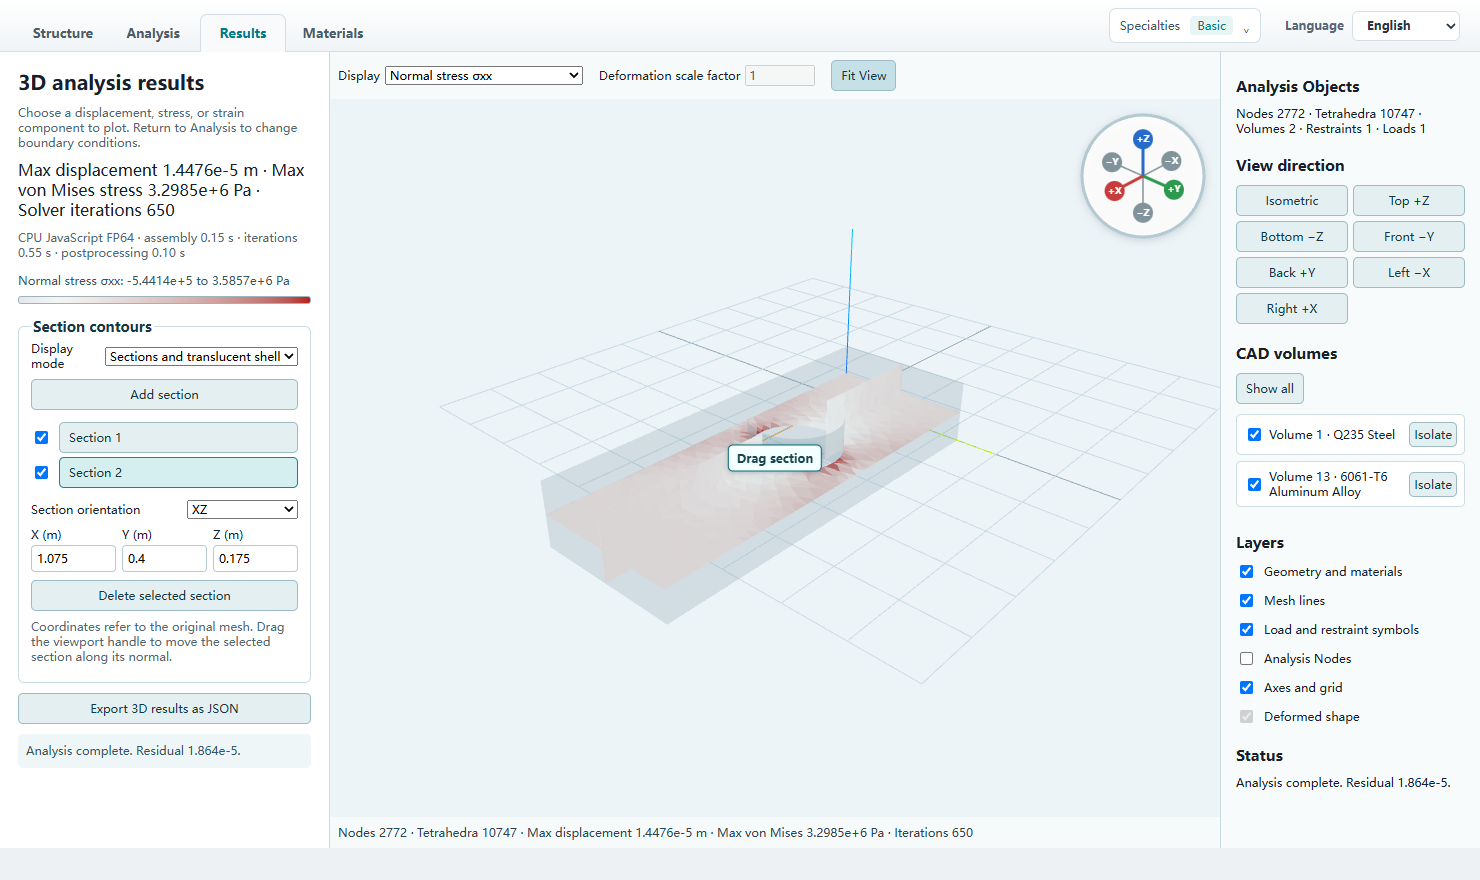
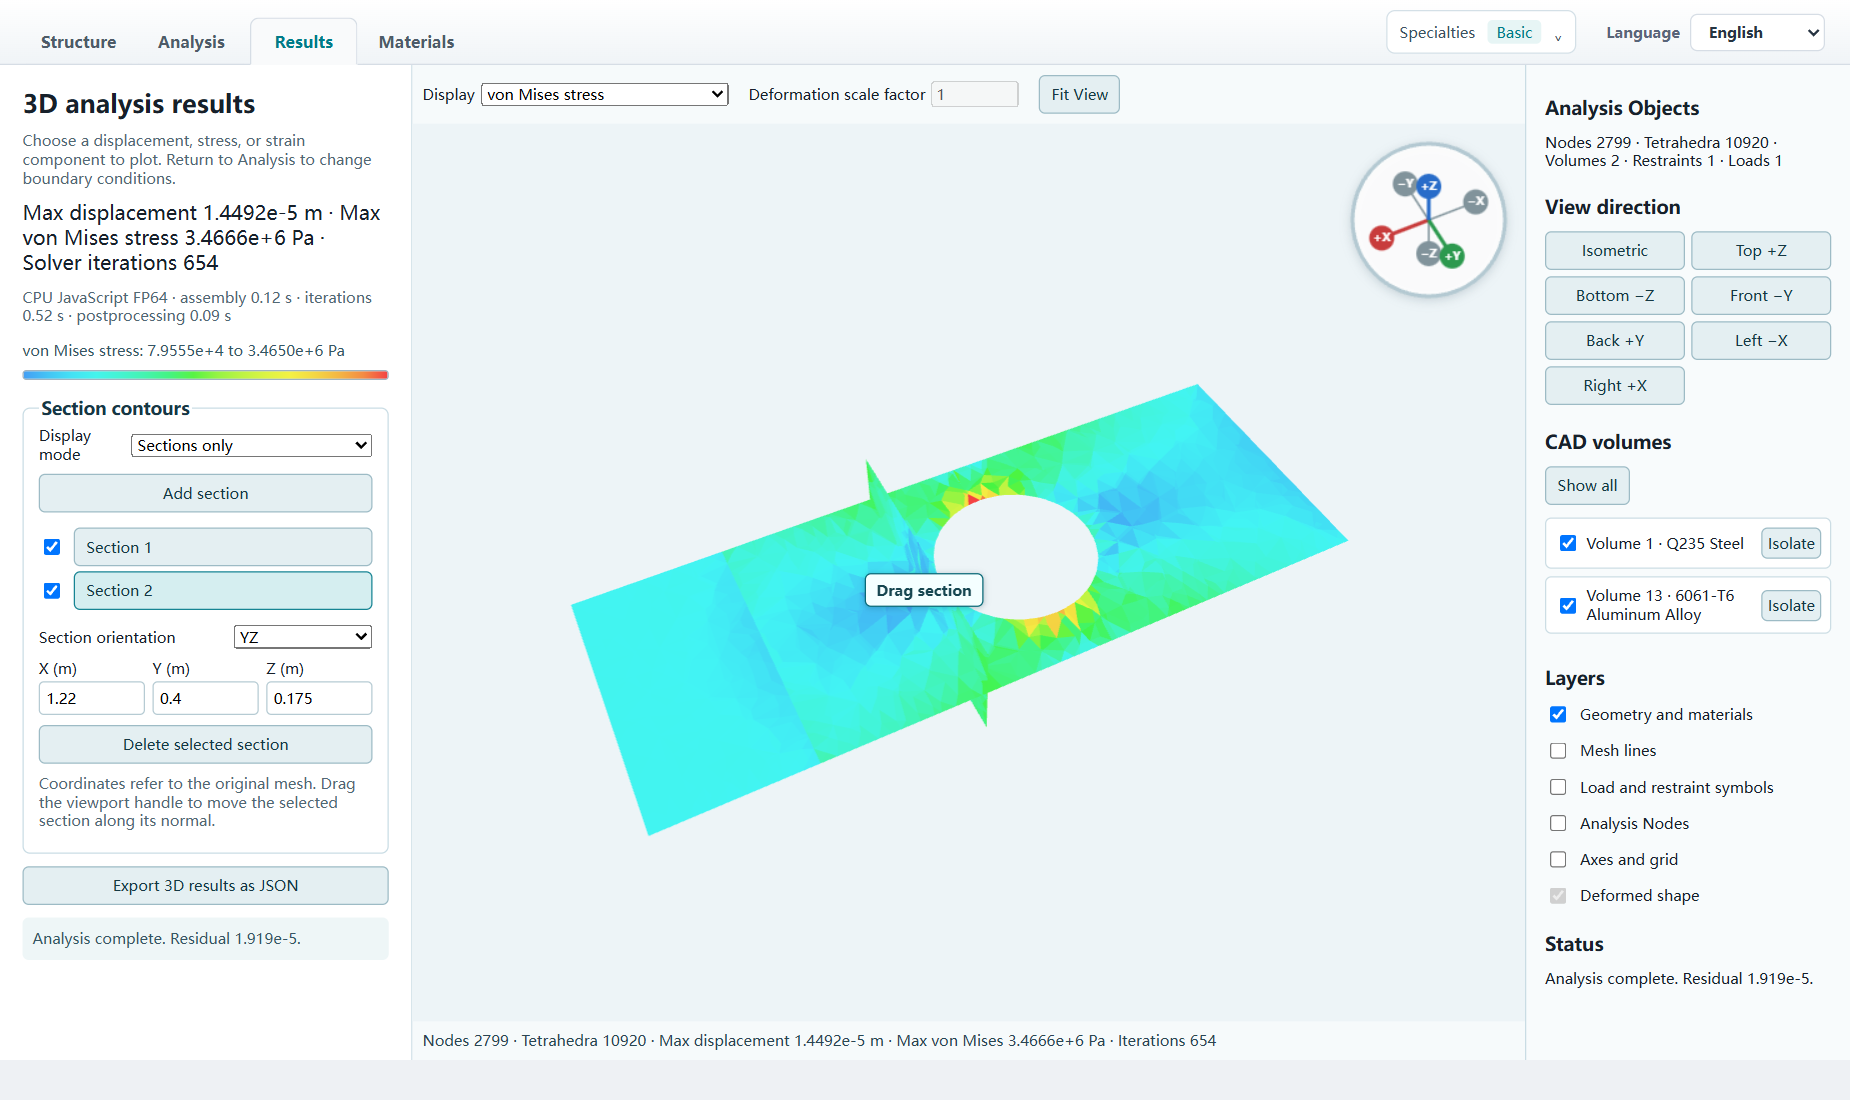
docs: improve the 3D section stress demonstration

diff --git a/docs/releases/v1.2.1.md b/docs/releases/v1.2.1.md
@@ -20,9 +20,11 @@ Download **`TENSORA-v1.2.1-windows-x64.zip`**, extract it completely, and run **
 
 ## Demonstrations / 功能演示
 
-[Full bilingual application tour / 完整双语功能导览](https://github.com/Sakihandser/TENSORA/blob/v1.2.1/README.md#application-tour--功能演示)
+[Full bilingual application tour / 完整双语功能导览](../../README.md#application-tour--功能演示)
 
-![3D interior stress contours / 三维内部应力云图](https://raw.githubusercontent.com/Sakihandser/TENSORA/v1.2.1/assets/demo/v1.2.1/sections-en.png)
+The XY mid-thickness section and the adjacent YZ section show von Mises stress around the hole and through the thickness on a shared color scale. / XY 中厚面和相邻的 YZ 横剖面共用色标，显示孔缘及厚度方向的 von Mises 应力分布。
+
+![Von Mises stress on XY and YZ sections of a perforated plate / 带孔板 XY 与 YZ 剖面的 von Mises 应力云图](../../assets/demo/v1.2.1/sections-en.png)
 
 - **2D statics / 二维静力学** · [Mode I opening / 一型裂纹张开](https://github.com/Sakihandser/TENSORA/blob/v1.2.1/assets/demo/v1.2.1/mode-i-en.png) · [Mode II shear / 二型裂纹剪切](https://github.com/Sakihandser/TENSORA/blob/v1.2.1/assets/demo/v1.2.1/mode-ii-en.png) · [Safety check / 安全校核](https://github.com/Sakihandser/TENSORA/blob/v1.2.1/assets/demo/v1.2.1/safety-en.png)
 - **Damage and deformation / 损伤变形** · [AT2 crack propagation / AT2 相场裂纹扩展](https://github.com/Sakihandser/TENSORA/blob/v1.2.1/assets/demo/v1.2.1/deformation-en.png) · [J2 plastic strain / J2 塑性应变](https://github.com/Sakihandser/TENSORA/blob/v1.2.1/assets/demo/v1.2.1/plastic-en.png)

diff --git a/README.md b/README.md
@@ -38,9 +38,9 @@ The screenshots show TENSORA running local demonstration cases. 图示来自 TEN
 | --- | --- |
 | ![OpenCASCADE cut preview / OpenCASCADE 切削预览](assets/demo/v1.2.1/cad-en.png) | ![Multi-volume tetrahedral mesh / 多体域四面体网格](assets/demo/v1.2.1/mesh-en.png) |
 
-The two sections below cut through the same perforated, two-material model. They share a color scale and can be moved by coordinates or by dragging the viewport handle. 下图在同一个双材料带孔模型上显示两个剖面。剖面共用色标，可通过坐标输入或视窗手柄移动。
+The XY mid-thickness section (z = 0.175 m) shows von Mises stress concentrating around the hole. The nearby YZ section (x = 1.22 m) shows how stress varies through the thickness. Both sections share a color scale and can be moved by coordinates or by dragging the viewport handle. / XY 中厚面（z = 0.175 m）显示孔缘的 von Mises 应力集中，附近的 YZ 横剖面（x = 1.22 m）显示应力沿厚度的变化。两个剖面共用色标，可通过输入坐标或拖动视窗手柄移动。
 
-![3D interior stress on two movable sections / 两个可移动剖面的三维内部应力](assets/demo/v1.2.1/sections-en.png)
+![Von Mises stress on XY and YZ sections of a perforated plate / 带孔板 XY 与 YZ 剖面的 von Mises 应力云图](assets/demo/v1.2.1/sections-en.png)
 
 ### Damage and deformation / 损伤变形
 
